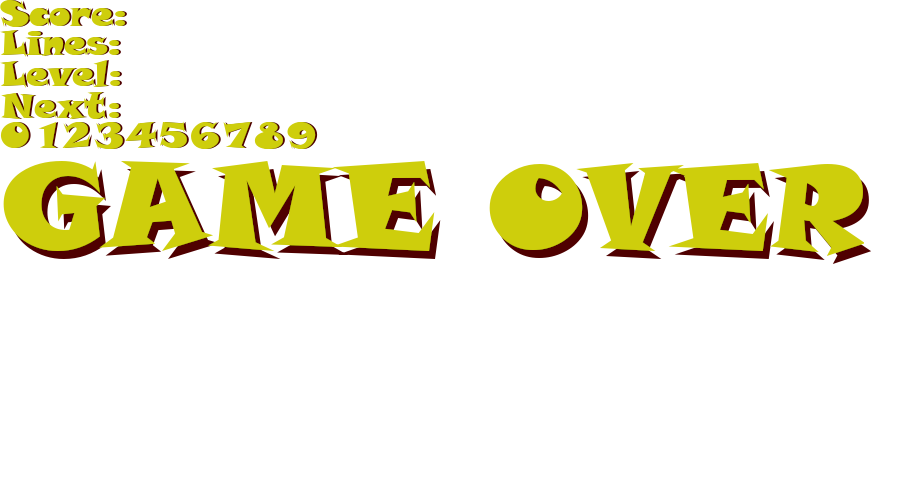
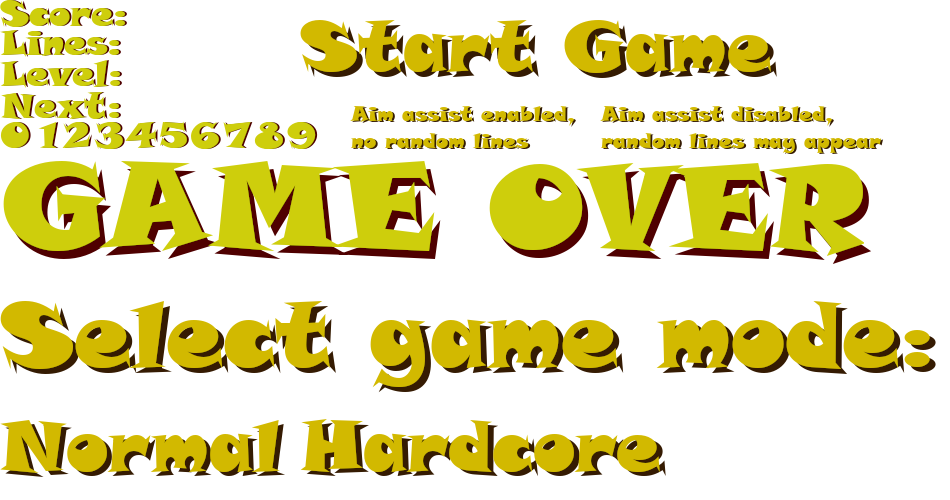
Add files via upload
Game mode select enabled. Minor tweaks and bug fixes.

diff --git a/script.js b/script.js
@@ -32,7 +32,10 @@ let nextState = 'loading';
 let keyHold = false;
 let gameTick = true;
 let hints = true;
+let hintsAllowed = false;
+let hardCoreMode = false;
 let advanceLevel = false;
+let playing = false;
 let resCount = 0;
 let blocks = new Image();
 let title = new Image();
@@ -79,36 +82,82 @@ function gameLoop(timestamp) {
     lastFrame = timestamp;
 
     if (tickElapsedTime > 50) {
-        gameTick = true;
         tickElapsedTime = 0;
         tick++;
+        gameTick = true;
     }
-
     cls();
 
     if (gameState === 'titleScreen') {
-        
+        playing = false;
         let w = title.width;``
         let h = title.height;
+        //Title
         ctx.save();
         ctx.transform(1, 0, 0, 1, (wWidth - w * scale) / 6 * Math.sin(elapsedTime / 3000) , wHeight * 0.02 * Math.cos(elapsedTime/750));
         ctx.drawImage(title, 0, 322 * (Math.floor(tick / 60) % 3), w, 322, (wWidth - w * scale) / 2, wHeight / 10 * scale, 
                        w * scale, 322 * scale);
         ctx.restore();
-        w = startButton.width;
-        h = startButton.height;
 
-        if (mouseX > (wWidth - w * scale) / 2 && mouseX < (wWidth + w * scale) / 2 
-            && mouseY > wHeight * 0.7 && mouseY < wHeight * 0.7 + h * scale) {
+        //Start Game Button Animation
+        if (mouseX > (wWidth - 476 * scale) / 2 && mouseX < (wWidth + 476 * scale) / 2 
+            && mouseY > wHeight * 0.7 && mouseY < wHeight * 0.7 + 90 * scale) {
                 scale += 0.05 * Math.sin(elapsedTime/150)
             }
-        ctx.drawImage(startButton, (wWidth - w * scale) / 2, wHeight * 0.7, w * scale, h * scale);
-        
+        ctx.drawImage(textSheet, 300, 0, 476, 95, (wWidth - 476 * scale) / 2, wHeight * 0.7, 476 * scale, 90 * scale);
+                
         ctx.drawImage(cursor, mouseX - 32, mouseY - 32);
     }
 
-    if (gameState != 'titleScreen' && gameState != 'loading') {
+    if (gameState === 'modeSelect') {
+        let w = title.width;
+        let h = title.height;
+        let normalHover;
+        let hardCoreHover;
+        ctx.save();
+        //Title
+        ctx.transform(1, 0, 0, 1, (wWidth - w * scale) / 6 * Math.sin(elapsedTime / 3000) , wHeight * 0.02 * Math.cos(elapsedTime/750));
+        ctx.drawImage(title, 0, 322 * (Math.floor(tick / 60) % 3), w, 322, (wWidth - w * scale) / 2, wHeight / 10 * scale, 
+                       w * scale, 322 * scale);
+        ctx.restore();
+
+        //Select game mode
+        ctx.drawImage(textSheet, 0, 300, 935, 100, (wWidth - 935 * scale) / 2, wHeight * 0.55, 935 * scale, 100 * scale);
+      
+        //Hover animations
+        if ((mouseY > wHeight * 0.75 && mouseY < wHeight * 0.75 + 55 * scale) && 
+            (mouseX > wWidth / 2 - 285 * scale - wWidth / 8 && mouseX < wWidth / 2 - wWidth / 8)) {
+                scale += 0.05 * Math.sin(elapsedTime/150);
+                normalHover = true; 
+            }
+        ctx.drawImage(textSheet, 0, 420, 285, 55, wWidth / 2 - 285 * scale - wWidth / 8, wHeight * 0.75, 285 * scale, 55 * scale);
+        
+        scale = wWidth / sWidth;  
+        
+        if ((mouseY > wHeight * 0.75 && mouseY < wHeight * 0.75 + 55 * scale) &&
+           (mouseX > wWidth / 2 + wWidth / 8 && mouseX < wWidth / 2 + wWidth / 8 + 366 * scale)) {
+                scale += 0.05 * Math.sin(elapsedTime/150);
+                hardCoreHover = true;
+           }
+           
+           ctx.drawImage(textSheet, 300, 420, 366, 55, wWidth / 2 + wWidth / 8, wHeight * 0.75, 366 * scale, 55 * scale);
+
+           scale = wWidth / sWidth;
+
+        //Mode explanation
+        if (normalHover) {
+            ctx.drawImage(textSheet, 350, 100, 225, 55, wWidth / 2 - 285 * scale - wWidth / 8, wHeight * 0.75 + 80 * scale, 225 * scale, 55 * scale);
+        }
+        if (hardCoreHover) {
+            ctx.drawImage(textSheet, 600, 100, 285, 55, wWidth / 2 + wWidth / 8, wHeight * 0.75 + 80 * scale, 285 * scale, 55 * scale);
+        }
+
+        ctx.drawImage(cursor, mouseX - 32, mouseY - 32);
+    }
+
+    if (playing) {
         drawGrid();
+        checkKeyInput();
         pentomino.draw();
         if(hints) {
             pentomino.dropShadow();
@@ -147,9 +196,8 @@ function gameLoop(timestamp) {
     
 
     if (gameState === 'paused') {
-        checkKeyInput();
         ctx.save();
-        ctx.fillStyle = 'rgba(25, 25, 25)';
+        ctx.fillStyle = `rgba(16, 25, 41, 1)`;
         ctx.fillRect(pentomino.originX + cellSize, pentomino.originY, cellSize * (COLS - 2), cellSize * (ROWS - 1));
         ctx.font = 'bold 100px "Arial Bold"';
         ctx.fillStyle = 'rgba(0, 0, 0, .5)'
@@ -164,7 +212,7 @@ function gameLoop(timestamp) {
 
     if (gameState === 'gameOver') {
         ctx.drawImage(textSheet, 0, 160, 875, 105, wWidth / 2 - 437 * scale, wHeight / 2 - 52 * scale, 875 * scale, 105 * scale);
-
+        
     }
     
 
@@ -201,7 +249,6 @@ function gameLoop(timestamp) {
     }
 
     if (gameState === 'playing') {
-        checkKeyInput();
 
         if (pentomino.currentPiece === null) {
             pentomino.selectNewPiece();
@@ -211,8 +258,7 @@ function gameLoop(timestamp) {
             
             nextState = 'gameOver';
         } 
-     
-    
+        
         if (elapsedTime > speed) {
             elapsedTime = 0;
             
@@ -235,8 +281,14 @@ function gameLoop(timestamp) {
                 for (let py = 0; py < 5; py++) {
                         if (pentomino.currentY + py < ROWS - 1) {
                             let isLine = true;
+                            if(!emptyPieceLine(py)) {
                             for (let px = 1; px < COLS - 1; px++) {
-                                isLine &= grid[(pentomino.currentY + py) * COLS + px] !=null;
+                                
+                                    isLine &= grid[(pentomino.currentY + py) * COLS + px] !=null;
+                                }
+                            }
+                            else {
+                                isLine = false;
                             }
                             if(isLine) {
                                 fullLines.push(pentomino.currentY + py);
@@ -269,7 +321,21 @@ function gameLoop(timestamp) {
            
         }
         pentomino.shadowY = pentomino.currentY;
+
+        if (hardCoreMode && gameTick && tick % 750 === 0 && Math.random() < 0.3) {
+            for (py = 0; py < ROWS - 1; py++) {
+                for (px = 1; px < COLS - 1; px++) {
+                    grid[py * COLS + px] = grid[(py + 1) * COLS + px]
+                }
+            }
+    
+            for (let px = 1; px < COLS -1; px ++) {                       
+                grid[(ROWS - 2) * COLS + px] = Math.random() < 0.33 ? null : Math.floor(Math.random() * 18);
+            }
+            gameTick = false;
+        }
     }
+
     gameState = nextState;
     window.requestAnimationFrame(gameLoop);
 }
@@ -288,6 +354,15 @@ function cls() {
     ctx.restore();
 }
 
+function emptyPieceLine(py) {
+    let count = 0;
+    for(px = 0; px < 5; px++) {
+        if (pentomino.pentominos[pentomino.currentPiece][pentomino.rotate(px, py, pentomino.rotation)] === '.') {
+            count++;
+        }
+    }
+    return (count === 5);
+}
 
 function createGrid() { 
     for (let x = 0; x < COLS; x++) {
@@ -330,6 +405,9 @@ function restartGame() {
 
         pentomino.currentPiece = null;
         pentomino.nextPiece = null;
+        hardCoreMode = false;
+        hintsAllowed = false;
+        hints = true;
         pentomino.selectNewPiece();
         lastTick = tick;
         nextState = 'titleScreen';
@@ -339,7 +417,7 @@ function restartGame() {
 
 function checkKeyInput() {
 
-    if (gameState != 'paused') {
+    if (gameState != 'paused' && gameState != 'titleScreen') {
         //Left Arrow
         if (keys[37] && !pentomino.dropped && pentomino.fits(pentomino.currentX-1, pentomino.currentY, pentomino.rotation)) {
             pentomino.currentX--;
@@ -370,10 +448,12 @@ function checkKeyInput() {
     }
 
     //H
-    if (keys[72]) hints = !hints;
+    if (keys[72] && hintsAllowed) hints = !hints;
     
    //SPACE
-    if (keys[32]) pentomino.dropSelf();
+    if (keys[32]) {
+        pentomino.dropSelf();
+    }
  
     
     }
@@ -388,6 +468,10 @@ function checkKeyInput() {
         }
     }
     
+    if (gameState === 'gameOver' && keys.length) {
+        restartGame();
+    }
+
     keys = [];
 }
 
@@ -400,9 +484,27 @@ function handleClick() {
     if (gameState === 'titleScreen') {
         if ((mouseX > wWidth / 2 - startButton.width / 2) && (mouseX < wWidth / 2 + startButton.width / 2) 
             && (mouseY > wHeight * 0.7) / 2 && (mouseY < wHeight * 0.7 + startButton.height)) {
-                pentomino.selectNewPiece();
-                nextState = 'playing';
+                
+                nextState = 'modeSelect';
         }
+    }
+
+    if (gameState === 'modeSelect') {
+
+        if ((mouseY > wHeight * 0.75 && mouseY < wHeight * 0.75 + 55 * scale) && 
+            (mouseX > wWidth / 2 - 285 * scale - wWidth / 8 && mouseX < wWidth / 2 - wWidth / 8)) {
+                hardCoreMode = false;
+                hintsAllowed = true;
+            }
+            if ((mouseY > wHeight * 0.75 && mouseY < wHeight * 0.75 + 55 * scale) &&
+            (mouseX > wWidth / 2 + wWidth / 8 && mouseX < wWidth / 2 + wWidth / 8 + 366 * scale)) {
+                hardCoreMode = true;
+                hints = false;
+                hintsAllowed = false;
+            }
+        pentomino.selectNewPiece();
+        playing = true;
+        nextState = 'playing';
     }
 }
 

diff --git a/pentomino.js b/pentomino.js
@@ -80,7 +80,7 @@ class Pentomino {
                         ctx.save();
                         ctx.strokeStyle = 'rgba(150, 150, 150, .5)'; //this.colors[this.currentPiece];
                         ctx.lineWidth = 1;
-                        ctx.strokeRect(this.originX + (this.currentX + px) * cellSize, this.originY + (this.shadowY + py)* cellSize, cellSize, cellSize);
+                        ctx.strokeRect(this.originX + (this.currentX + px) * cellSize, this.originY + (this.shadowY + py)* cellSize, cellSize - 4, cellSize - 4);
                         ctx.restore();
                     }
                 }
